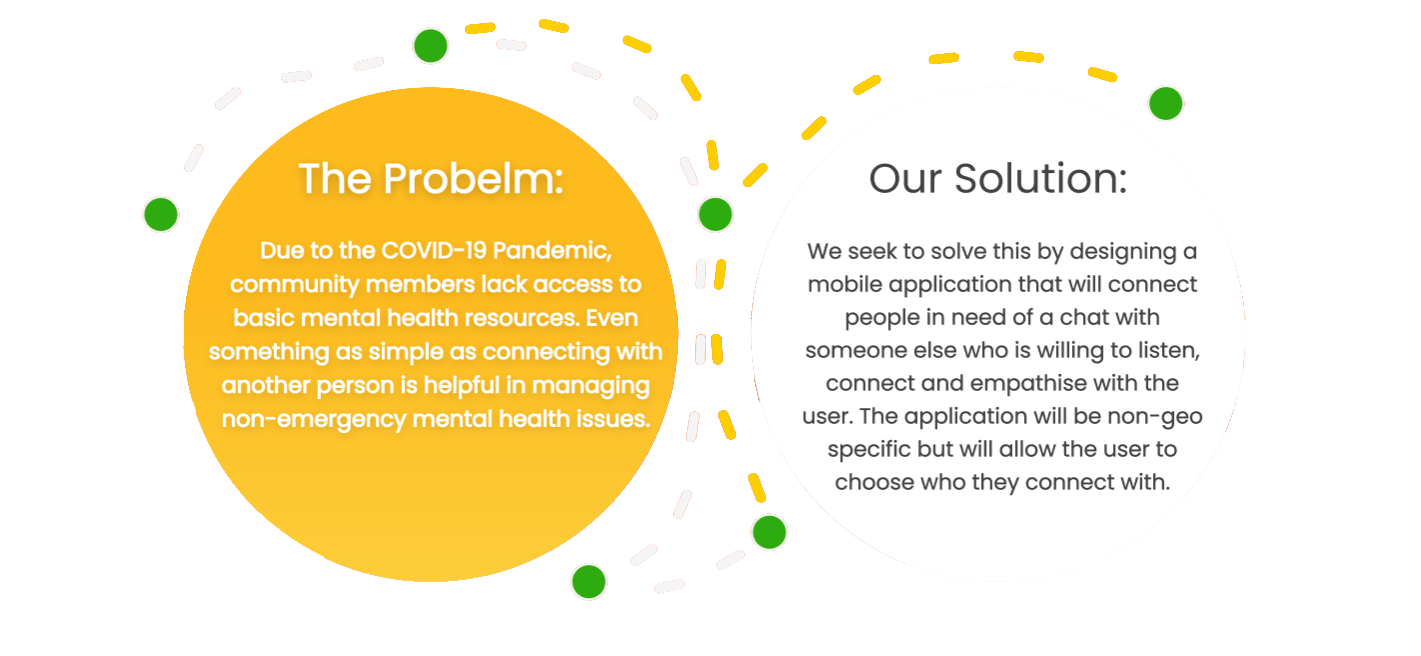
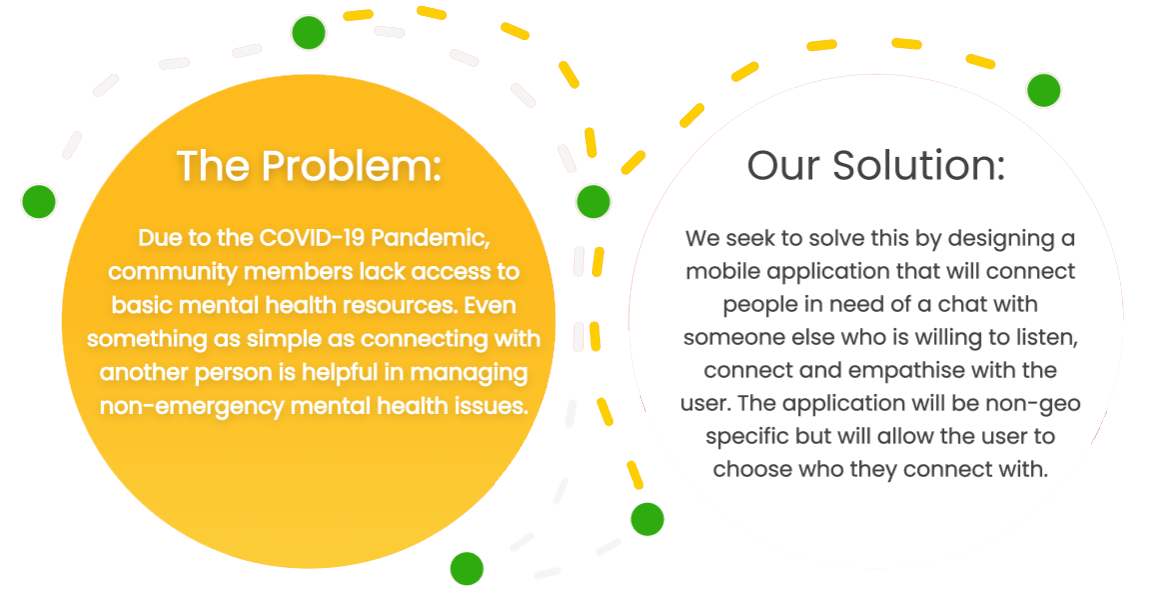
problem spelling fixed

diff --git a/sophrosyne-client/src/pages/aboutUs.css b/sophrosyne-client/src/pages/aboutUs.css
@@ -19,7 +19,7 @@ html,body{
     height: 850px;
     left: 50px;
     top: 196.84px;
-    padding-left: 0px;
+    padding-left: 150px;
 }
 
 .abouUs3 {
